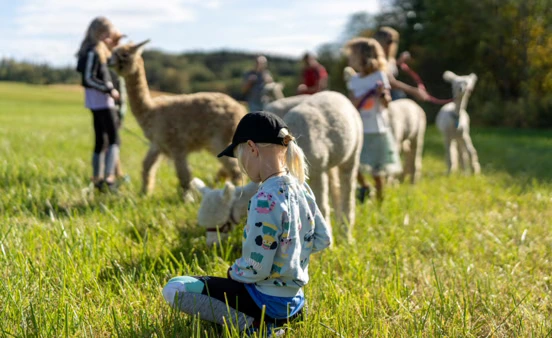
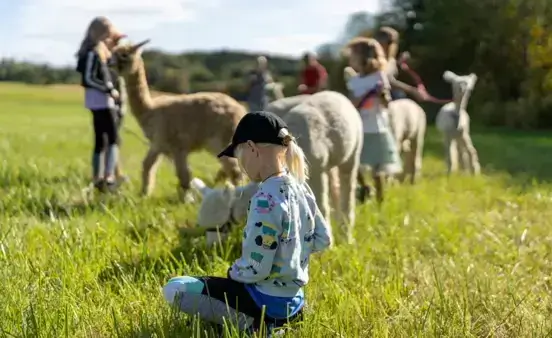
la til litt mindre versjoner av bildene i activity, litt småendringer i css for at det skulle bli mer ryddig + små endringer på koding av bildene i activity

diff --git a/activity.html b/activity.html
@@ -6,6 +6,7 @@
     <meta name="viewport" content="width=device-width", initial-scale="1.0">
     <link rel="stylesheet" href="style.css">
     <link rel="stylesheet" href="https://cdnjs.cloudflare.com/ajax/libs/font-awesome/6.0.0-beta3/css/all.min.css">
+    <link rel="preload" as="image" href="media/gutt_med_alpakka.webp">
 </head>
     
 <body class="aktivitet no-border"><!-- Tabellen her laget etter koder i W3School og denne artikkelen: https://developer.mozilla.org/en-US/docs/Web/HTML/Element/summary -->
@@ -34,7 +35,12 @@
         </header>
     <div class="rolling-paper">
         <main>
-                <img src ="media/gutt_med_alpakka.webp" alt="Baby alpakka med en liten gutt" class="image1"> <!-- https://www.visitvestfold.com/no/produkt/?tlp=6694413&name=Monnerod-Alpakka -->
+                <img 
+                    src ="media/gutt_med_alpakka.webp" @
+                    alt="Baby alpakka med en liten gutt" 
+                    class="image1" 
+                    width="800" 
+                    height="400"> <!-- https://www.visitvestfold.com/no/produkt/?tlp=6694413&name=Monnerod-Alpakka -->
 		        <h1>Ta en pause fra studiene med alpakkavandring!</h1>
 		        <p class="ingress">Som student kan det være stressende å balansere studier, deltidsjobber og fritid. Hvorfor ikke ta en velfortjent pause i frisk luft, omgitt av rolige og nysgjerrige alpakkaer? Alpakkavandring er den perfekte måten å koble av fra skolearbeidet på og samtidig tilbringe tid med venner eller alene i naturen.</p>
 
@@ -47,30 +53,38 @@
                         <li><b>Fysisk aktivitet</b> - Få frisk luft og lett mosjon mens du går i skjønn natur. Perfekt for å lade opp før eksamener eller krevende prosjektarbeid.</li>
                         <li><b>En sosial aktivitet</b> - Ta med studiegruppen eller en vennegjeng for en morsom og sosial opplevelse. Alpakkavandring er en fin måte å knytte bånd på utenfor klasserommet.</li>
                     </ul>
-		            <img src ="media/alpakkavandring.webp" alt="Jenter på alpakkavandring" class="boxed-image"> <!-- fra https://alpakkavandring.gifty.no/ -->
+		            <img src ="media/alpakkavandring.webp" alt="Jenter på alpakkavandring" class="boxed-image" width="800" height="400"> <!-- fra https://alpakkavandring.gifty.no/ -->
                     </div>
 
 		            <h2>Hvordan komme i gang?</h2>
 		            <p>Det finnes flere alpakkagårder over hele Norge som tilbyr vandringer for grupper og enkeltpersoner. Sjekk ut noen av disse populære destinasjonene:</p>
 		            <ul>
-                        <li><a href="https://www.alpakkavandring.no/produkt/alpakkavandring/"target="_self">Alpakkavandring i Sørum</a></li>
-		                <li><a href="https://www.alpakkavandring.no/produkt/alpakkavandring-hurdal/"target="_self">Alpakkavandring i Hurdal</a></li> 
-                        <li><a href="https://alpakkagaarden.no/product/alpakkavandring-med-alpakka/"target="_self">Alpakkavandring i Våler</a></li>
+                        <li><a href="https://www.alpakkavandring.no/produkt/alpakkavandring/"target="_self" rel="noopener noreferrer">Alpakkavandring i Sørum</a></li>
+		                <li><a href="https://www.alpakkavandring.no/produkt/alpakkavandring-hurdal/"target="_self" rel="noopener noreferrer">Alpakkavandring i Hurdal</a></li> 
+                        <li><a href="https://alpakkagaarden.no/product/alpakkavandring-med-alpakka/"target="_self" rel="noopener noreferrer">Alpakkavandring i Våler</a></li>
                     </ul>
-                    <p><a href="https://www.alpakkaforeningen.no/om-alpakka/"target="_self">Her kan du lese mer om alpakkaene</a> og hva som gjør dem så spesielle.</p>
+                    <p><a href="https://www.alpakkaforeningen.no/om-alpakka/"target="_self" rel="noopener noreferrer">Her kan du lese mer om alpakkaene</a> og hva som gjør dem så spesielle.</p>
 
                     <h2>Praktisk informasjon</h2>  
                     <p>De fleste alpakkavandringer er tilgjengelige året rundt, men det er lurt å bestille i god tid. Mange gårder tilbyr studentrabatter eller gruppepriser, noe som gjør det til en perfekt aktivitet å inkludere i en studentbudsjettvennlig helgetur. For mer informasjon om turer og priser, sjekk ut <a href=""target="_self">de beste alpakkavandringene for studenter.</a></p>   <!-- link -->
 
                     <h2>Gå en tur og få ny energi!</h2>
-                    <p>Etter en dag med alpakkaer kommer du tilbake til studiene med fornyet energi og motivasjon. Forskning viser at tid i naturen kan forbedre konsentrasjonsevnen og gi deg et mentalt løft. <a href="https://strongbody.no/derfor-er-naturen-viktig/"target="_self">Les mer om fordelene med naturbaserte aktiviteter for studenter.</a></p>
+                    <p>Etter en dag med alpakkaer kommer du tilbake til studiene med fornyet energi og motivasjon. Forskning viser at tid i naturen kan forbedre konsentrasjonsevnen og gi deg et mentalt løft. <a href="https://strongbody.no/derfor-er-naturen-viktig/"target="_self" rel="noopener noreferrer">Les mer om fordelene med naturbaserte aktiviteter for studenter.</a></p>
 
                     <div class="image-container">
                         <div class="image-box">
-                            <img src="media/3alpakkaer.webp" alt="Alpakkaer som løper rundt"> <!-- https://www.enghaugen.no/ -->
+                            <img 
+                                src="media/3alpakkaer.webp" 
+                                alt="Alpakkaer som løper rundt" 
+                                width="800" 
+                                height="400"> <!-- https://www.enghaugen.no/ -->
                         </div>
                         <div class="image-box">
-                            <img src="media/jotunalpakka.webp" alt="Alpakkavandring i Jotun"> <!-- https://jotunfjell-alpakka.no/alpakka-vandring/ -->
+                            <img 
+                                src="media/jotunalpakka.webp" 
+                                alt="Alpakkavandring i Jotun" 
+                                width="800" 
+                                height="400"> <!-- https://jotunfjell-alpakka.no/alpakka-vandring/ -->
                         </div>
                     </div>
                 </div>
@@ -81,7 +95,7 @@
         <div class="footer-container">
             <h2> Hold deg oppdatert på hva som skjer på Oslomet.
             </h2>
-            <button class="subscribe-btn" onclick="window.location.href='https://www.oslomet.no/nyhetsbrev'">Abboner på vårt nyhetsbrev!</button>
+            <button class="subscribe-btn" onclick="window.location.href='https://www.oslomet.no/nyhetsbrev'">Abonner på vårt nyhetsbrev!</button>
               
         </div>
      <hr class="hrFooter">

diff --git a/style2.css b/style2.css
@@ -394,7 +394,7 @@ details > details p {
 
 /*css for activity*/ 
 
-body{
+ body {
     background-color: #ffd500;
     font-family: Arial, sans-serif;
     margin: 0;
@@ -402,11 +402,11 @@ body{
 }
 
 .rolling-paper {
-    max-width: 900px; 
-    margin: 20px auto; 
-    background-color: white; 
+    max-width: 900px;
+    margin: 20px auto;
+    background-color: white;
     padding: 50px 60px;
-    box-shadow: 0px 10px 20px rgba(0, 0, 0, 0.1);
+    box-shadow: 0 10px 20px rgba(0, 0, 0, 0.1);
 }
 
 /* generell styling for flex-container */
@@ -418,13 +418,13 @@ body{
 
 .flex-container {
     display: flex;
-    justify-content: space-between; 
-    align-items: center; 
-    gap: 40px; 
+    justify-content: space-between;
+    align-items: center;
+    gap: 40px;
 }
 
 .flex-container ul {
-    flex: 2; 
+    flex: 2;
     max-width: 55%;
     margin: 10px;
     padding: 0;
@@ -438,7 +438,7 @@ h1 {
     margin-bottom: 10px;
 }
 
-h2{
+h2 {
     font-weight: 600;
     font-size: 1.5em;
     color: #555;
@@ -452,15 +452,14 @@ p, ul {
 }
 
 .image1 {
-  display: block;
-  margin-left: auto;
-  margin-right: auto;
-  max-width: 100%; 
-  height: auto;
+    display: block;
+    margin: auto;
+    max-width: 100%;
+    height: auto;
 }
 
 .boxed-image {
-    width:100%;
+    width: 100%;
     max-width: 450px;
     height: auto;
     object-fit: cover;
@@ -470,9 +469,8 @@ p, ul {
 /* sentrer bilder */
 .center {
     display: block;
-    margin-left: auto;
-    margin-right: auto;
-    max-width: 100%; 
+    margin: auto;
+    max-width: 100%;
     height: auto;
 }
 
@@ -507,23 +505,23 @@ a:hover {
     display: flex;
     justify-content: space-between;
     gap: 20px;
-    max-width: 900px; 
+    max-width: 900px;
     margin: 40px auto 0;
-    padding: 0 60px; 
+    padding: 0 60px;
 }
 
 /* style for bilder med effekt */
 .image-container img {
     width: 100%;
-    height: 300px;        
+    height: 300px;
     object-fit: cover;
     transition: transform 0.3s ease;
     box-shadow: 0 4px 8px rgba(0, 0, 0, 0.1);
 }
 
 .image-container img:hover {
-    transform: scale(1.05); 
-    z-index: 1; 
+    transform: scale(1.05);
+    z-index: 1;
 }
 
 /* setter bilder side ved side */
@@ -532,21 +530,21 @@ a:hover {
     overflow: hidden;
 }
 
-
-/* mobile layout */
 @media (max-width: 800px) {
     .rolling-paper {
         padding: 10px;
         width: 100%;
         box-sizing: border-box;
     }
+
     .flex-container {
         flex-direction: column;
         align-items: center;
         gap: 20px;
     }
 
-    .flex-container ul, .flex-container img {
+    .flex-container ul,
+    .flex-container img {
         max-width: 100%;
     }
 
@@ -559,23 +557,22 @@ a:hover {
         font-size: 1em;
         line-height: 1.6;
     }
-
-    }
+}
 
 /* mobil layout for bilde 3 & 4 */
 @media (max-width: 600px) {
-.image-container {
-    flex-direction: column; 
-    align-items: center;
-    padding: 0; 
-}
+    .image-container {
+        flex-direction: column;
+        align-items: center;
+        padding: 0;
+    }
 
-.image-container .image-box {
-    width: 100%;
-    margin-bottom: 20px; 
-}
+    .image-container .image-box {
+        width: 100%;
+        margin-bottom: 20px;
+    }
 
-.image-container img {
-    height: auto; 
-}
+    .image-container img {
+        height: auto;
+    }
 }
